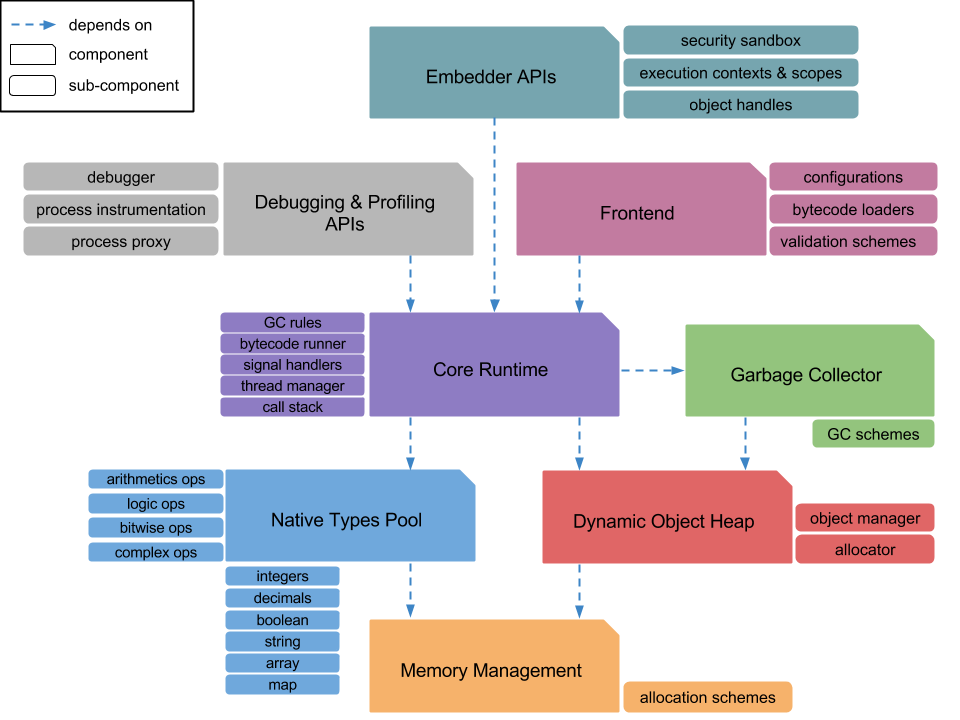
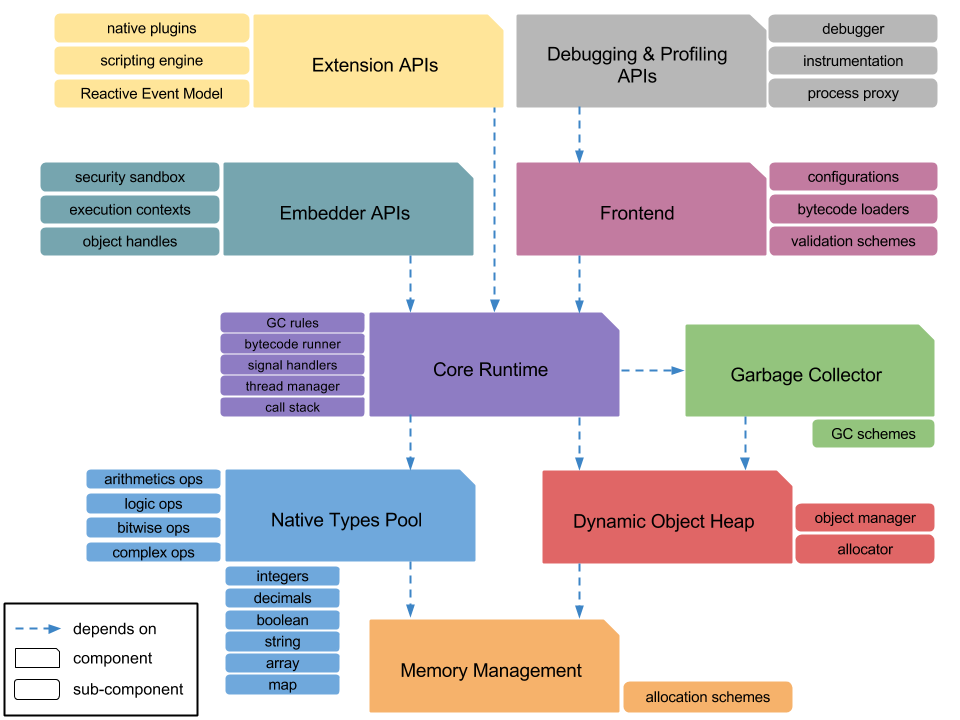
Update README.md with new components info

diff --git a/README.md b/README.md
@@ -144,6 +144,47 @@ Since the inception of this project, which is the beginning of March 2014, a lot
 of milestones have been achieved and many components are near completion at this
 point. However, there are still many new and exciting features to be designed
 and implemented ahead to greatly enhance the prowess and versatility of coreVM.
+There are three major features that are envisioned after the initial release,
+and they are the Debugging and Profiling APIs, Embedder APIs, and the
+Extension APIs.
+
+### Debugging and Profiling APIs
+These are a set of APIs and facilities that provide developers powerful
+capabilities to debug executable code running on coreVM. This includes the
+typical debugging capabilities such as pause execution and examine variable
+states, unwind/rewind call stacks, etc. In addition, there will be a set of
+facilities for instrumenting a diversity of aspects regarding executions,
+such as process introspections, memory footprint statistics, heap allocation
+heat map, to name a few.
+
+### Embedder APIs
+The Embedder APIs provide developers the capability to create virtual execution
+runtimes in their native applications by interacting with a set of APIs and
+abstracted models that define the entities and behaviors of executions of
+coreVM's internal runtime. For example, a developer who wants to build a little
+scripting engine in his or her application can employ the Embedder APIs to
+accomplish the heavy liftings of executing user provided scripts. All the work
+for that developer is to parse user provided scripts, and the rest can be
+left for coreVM to handle.
+
+### Extension APIs
+The Extension APIs are at the frontier of the next wave of heavy development
+with the goal of greatly enhance the capability and versatility of coreVM.
+The foundation of this is a scripting engine that allows developers to modify
+the functionalities of existing instructions or to create their own ones to
+performs custom functions. Developers can use a set of micro-instructions
+to program their desired functionalities for existing and new instructions.
+
+The next feature is called the *Reactive Event Model*, which is a model that
+provides the runtime the capability to react to a set of defined events that are
+occurring to the execution environment. For example, a developer may want to
+implement a language feature which reacts to certain events happening in the
+host operating system.
+
+The last feature is to support native plugins, which allows developers to
+incorporate the execution of native code in conjunction with coreVM's execution,
+in order to allow more interactions with the operating system.
+
 
 Below is a table of all the past milestones and some of the goals defined in the
 roadmap in the near future, with their respective completion dates and ETAs:
@@ -169,10 +210,10 @@ roadmap in the near future, with their respective completion dates and ETAs:
   Benchmark infrastructure                    |            Mar, 2015
   Docker integration                          |            Mar, 2015
   Initial beta release *                      |            Mar, 2015
-  Embedder client API                         |            Jun, 2015
-  Debugging facilities and APIs               |            Aug, 2015
-  Profiling API                               |            Aug, 2015
-  Address space layout randomization          |            Oct, 2015
+  Debugging and Profiling APIs                |            Jun, 2015
+  Embedder APIs                               |            Aug, 2015
+  Extension APIs                              |            Oct, 2015
+  Address space layout randomization          |            Nov, 2015
   Parallelism support                         |            Dec, 2015
 
 <br />
